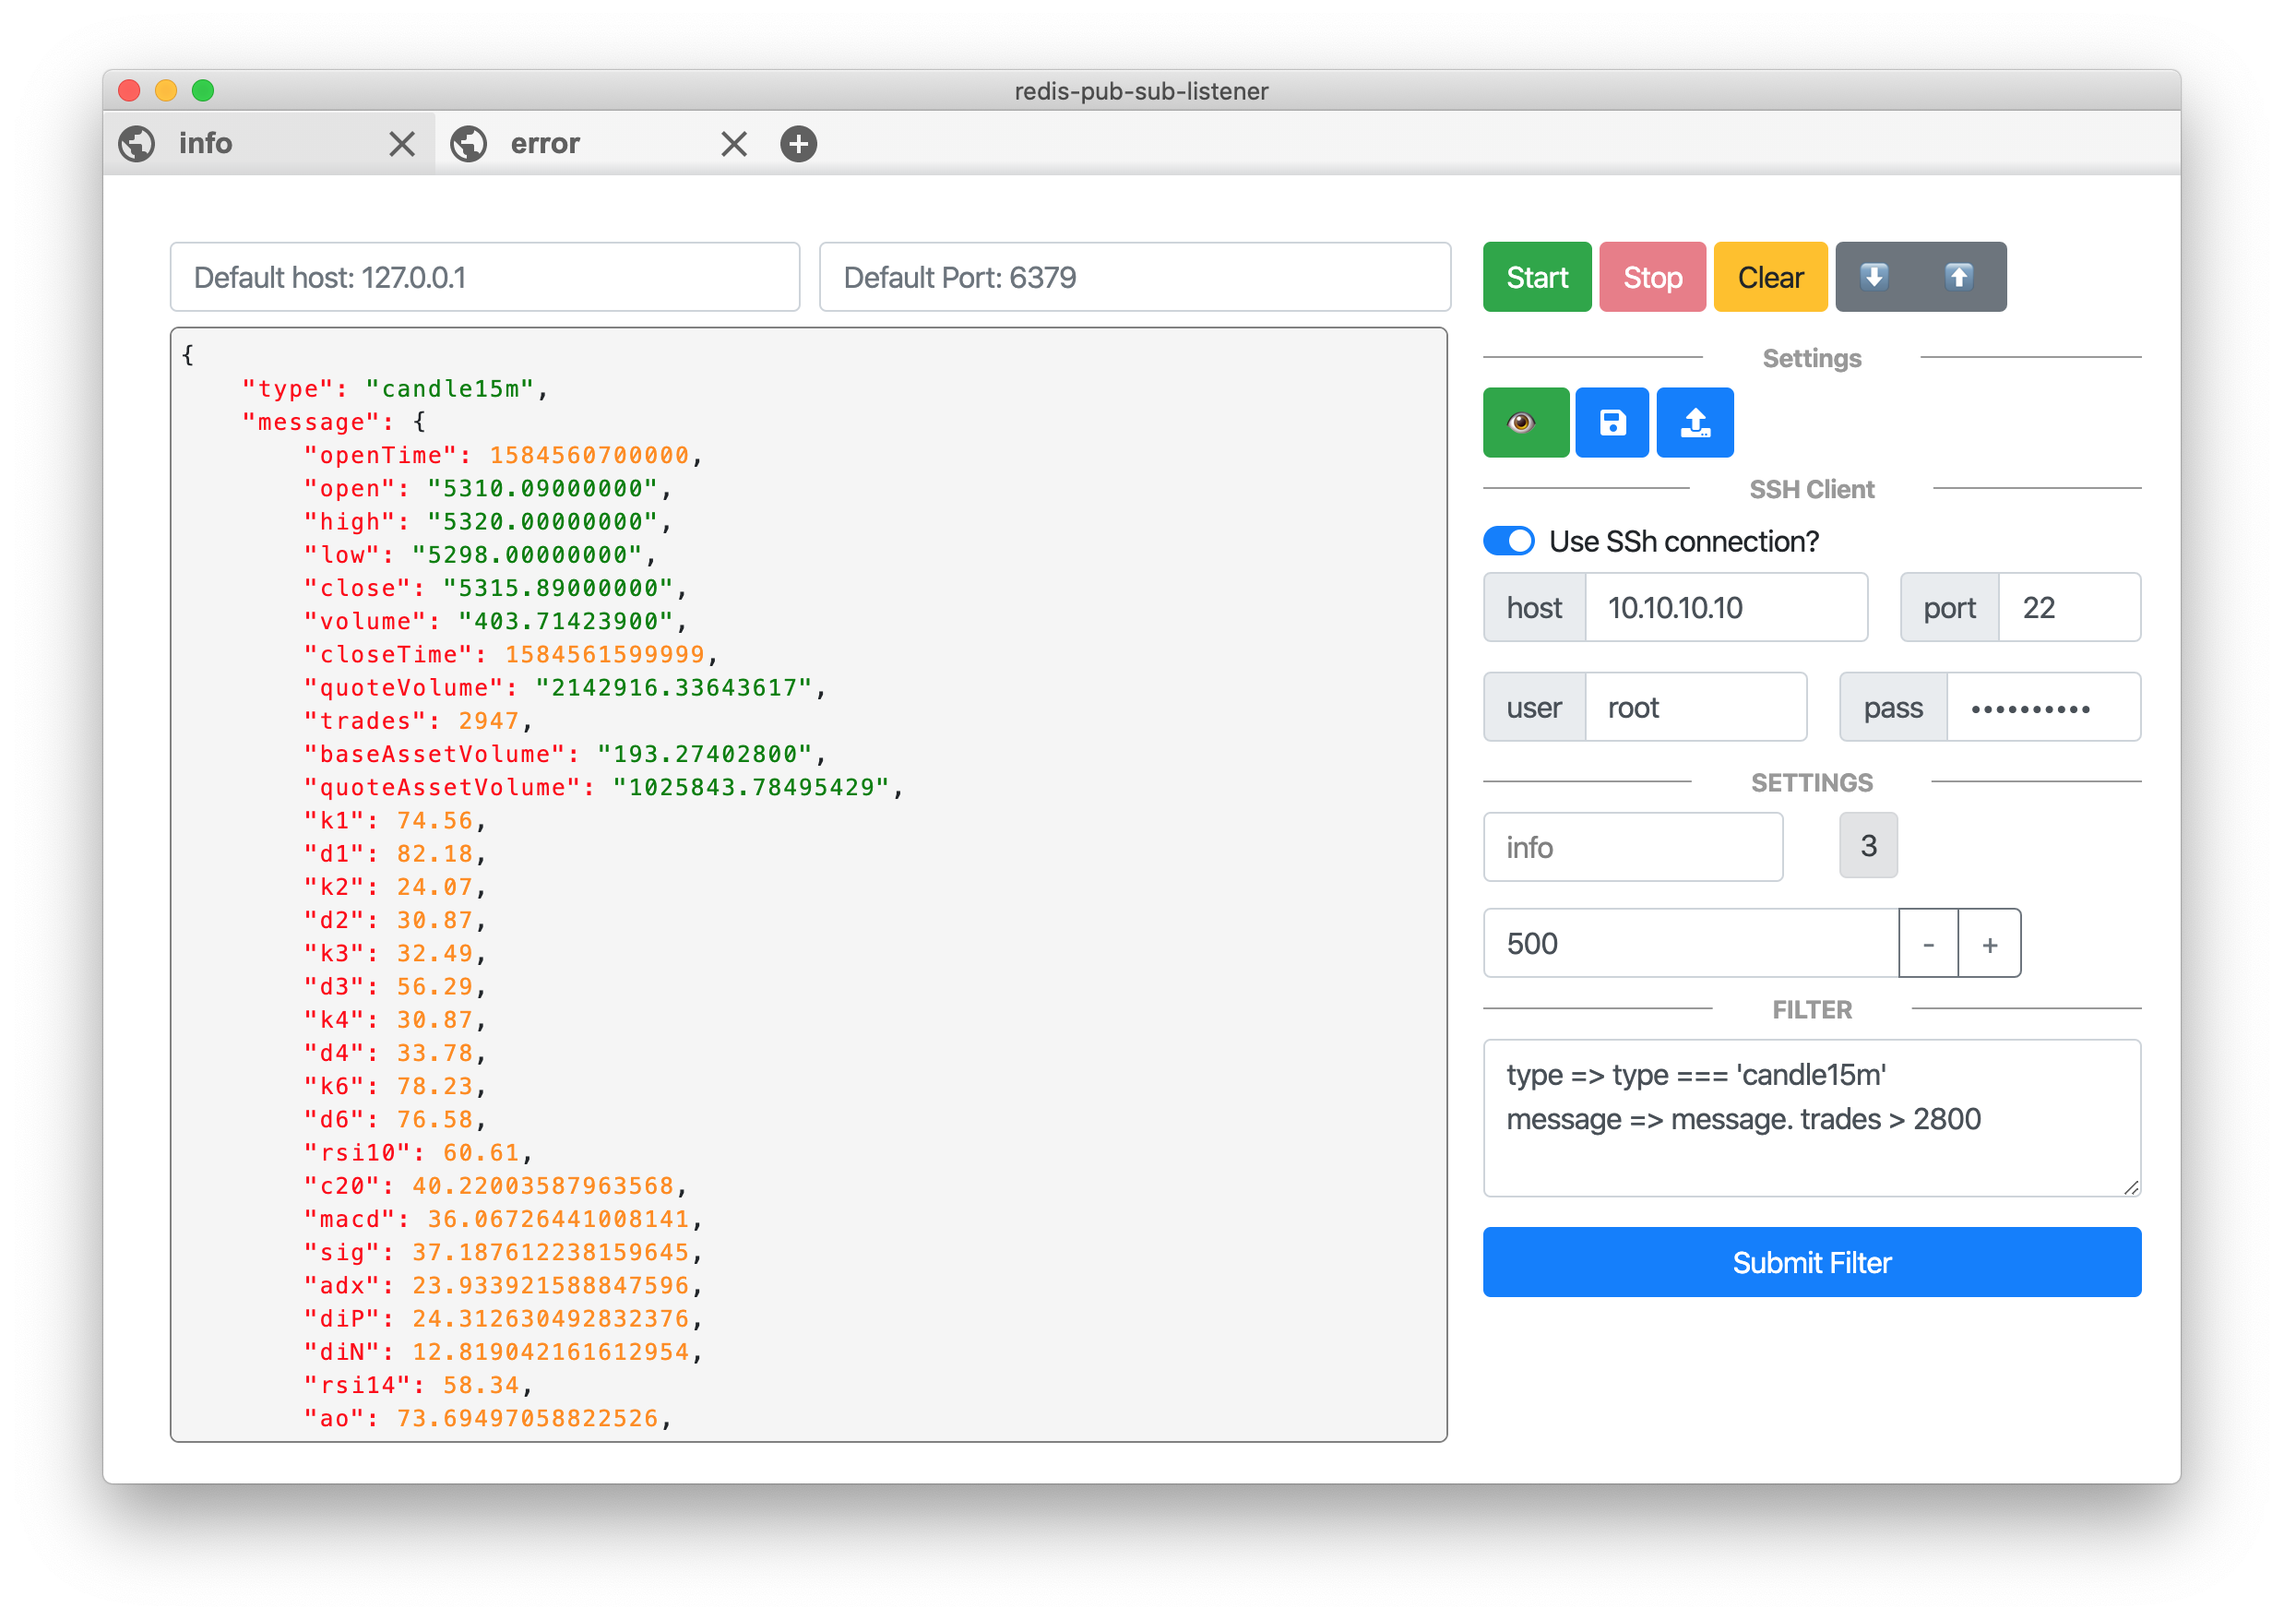
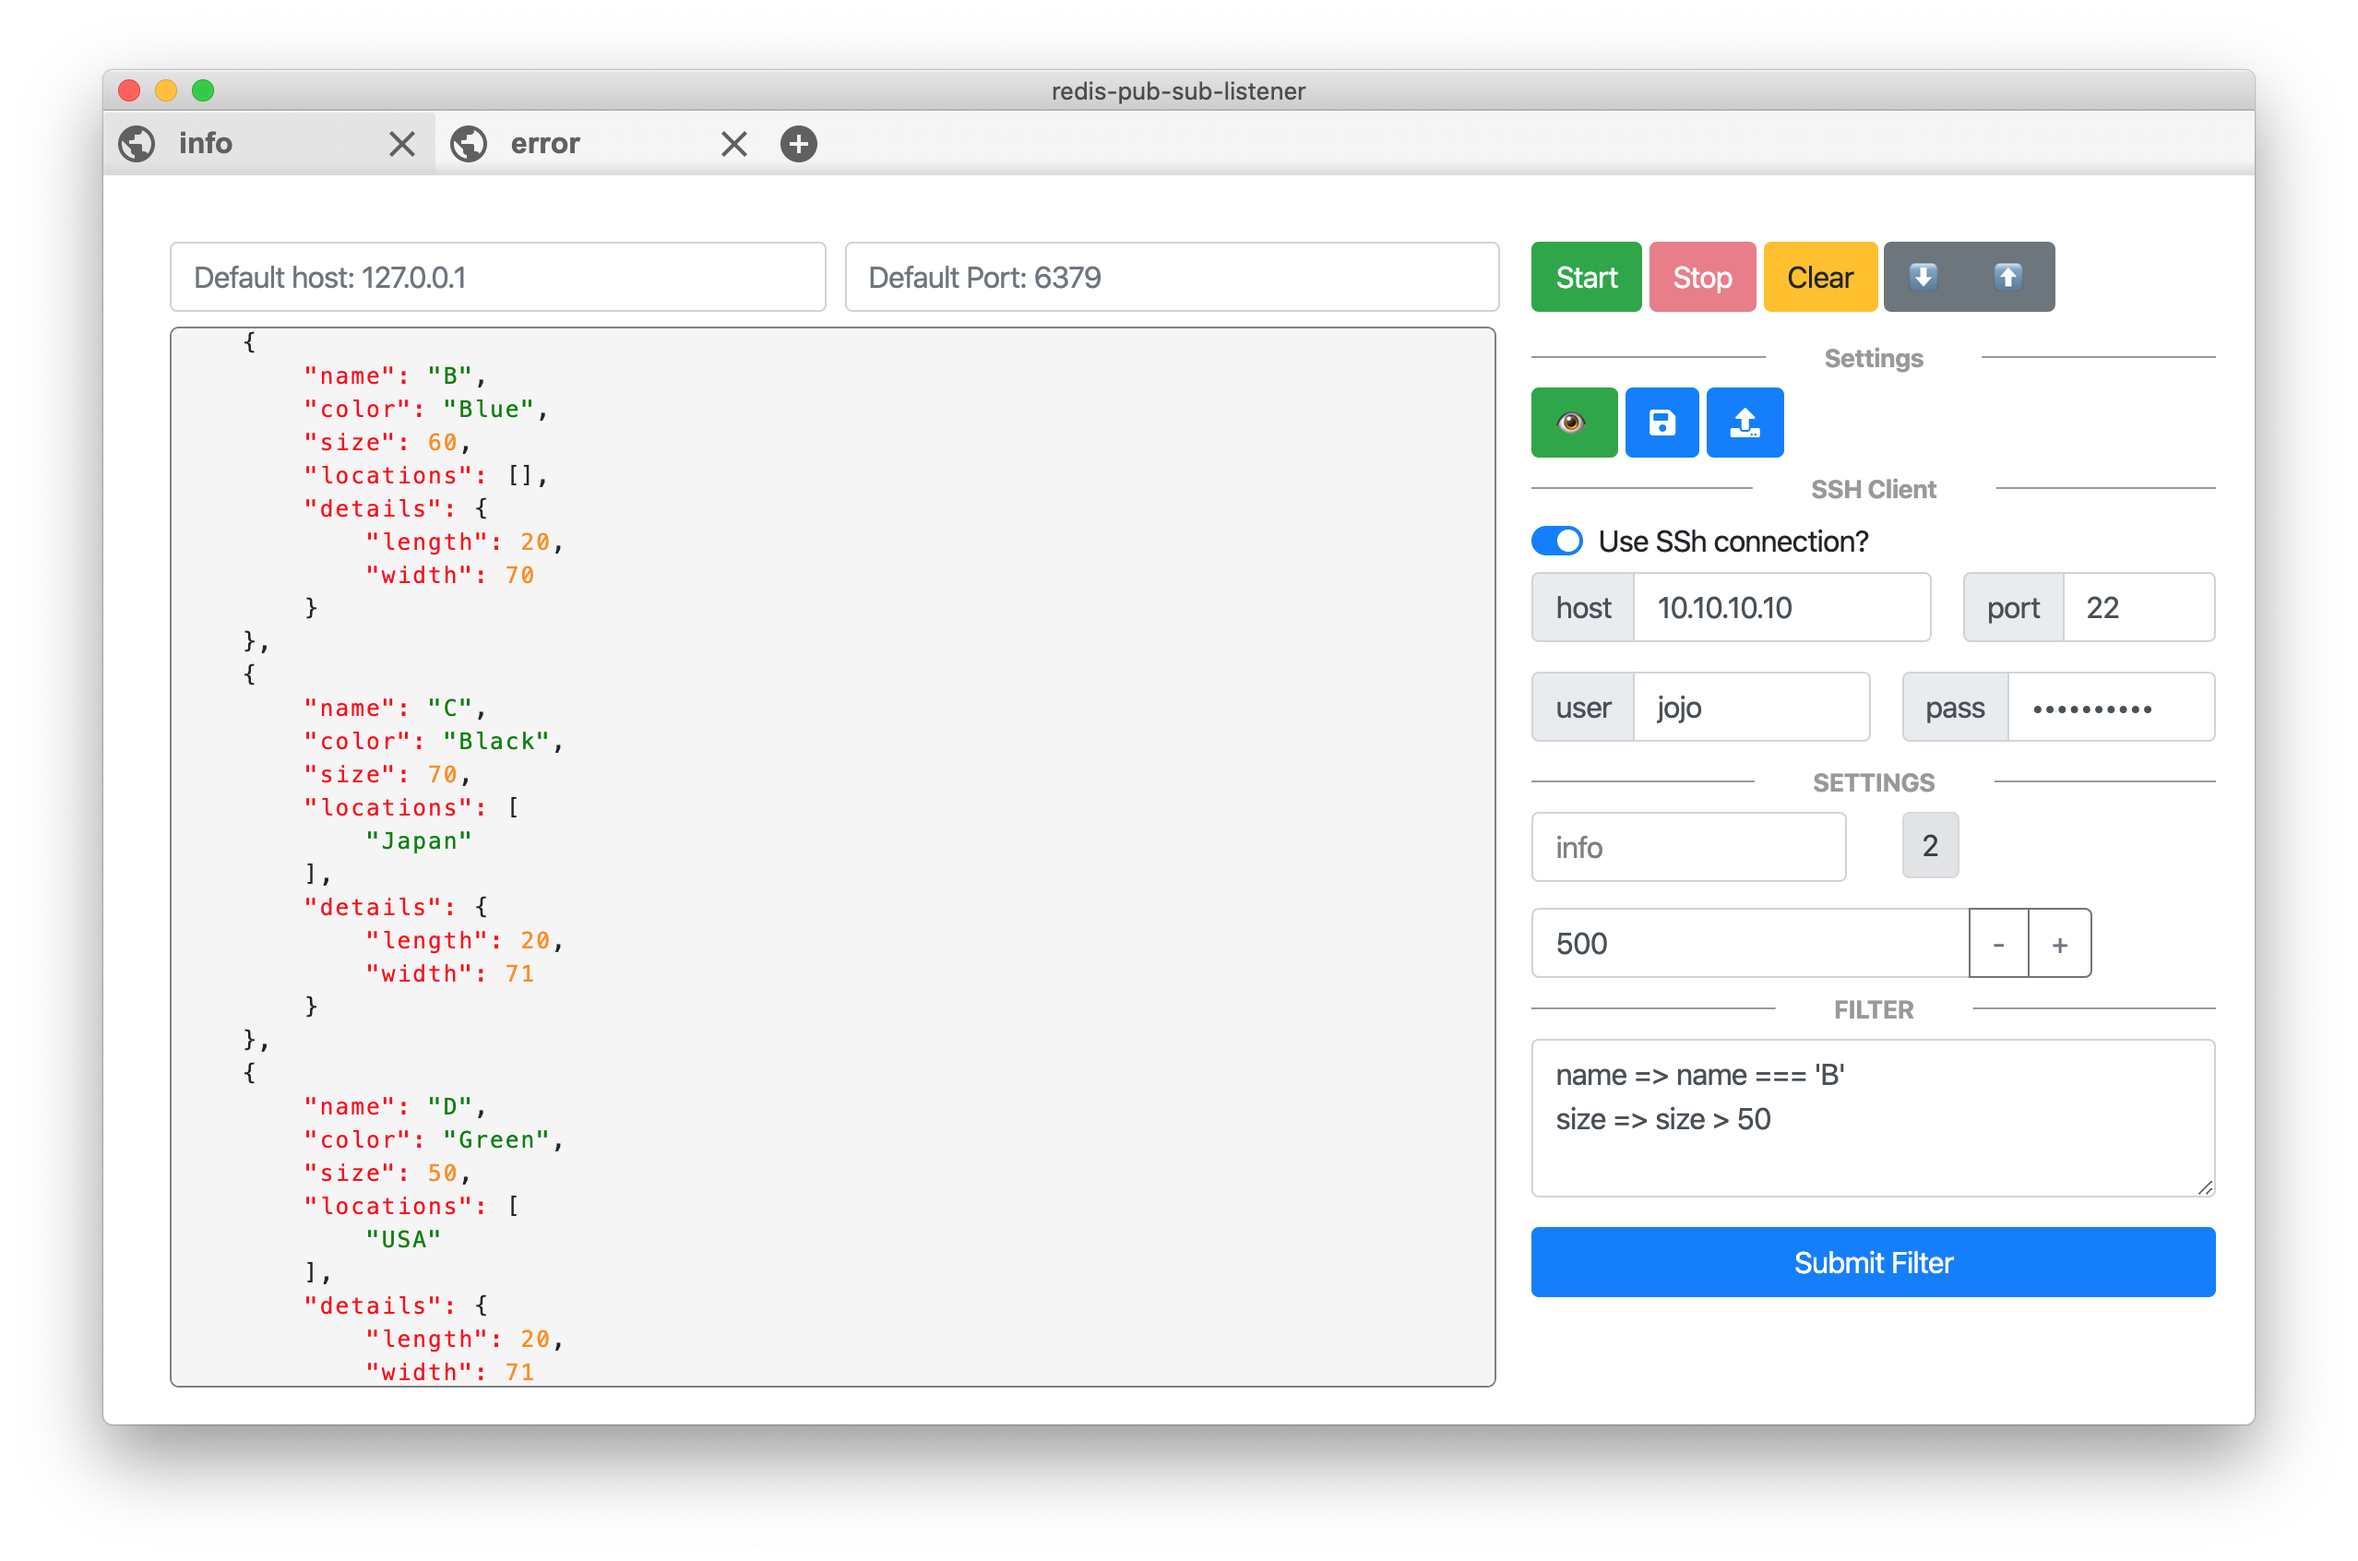
add image

diff --git a/js/channel.js b/js/channel.js
@@ -243,7 +243,7 @@ $(document).ready(function() {
     sendChannelNameToParent();
   });
 
-  //   publish();
+  // publish();
 });
 
 function showNotification(title, message) {
@@ -308,12 +308,37 @@ function publish() {
   var counterA = 0;
   setInterval(() => {
     counterA++;
-    publisher.publish(
-      'info',
-      `{"id":${counterA}, "count" : ${
-        counterA % 2 === 0 ? 1 : 2
-      }, "size" : "one"}`
-    );
+    const prod = [
+      {
+        name: 'A',
+        color: 'Blue',
+        size: 50,
+        locations: ['USA', 'Europe'],
+        details: { length: 20, width: 70 }
+      },
+      {
+        name: 'B',
+        color: 'Blue',
+        size: 60,
+        locations: [],
+        details: { length: 20, width: 70 }
+      },
+      {
+        name: 'C',
+        color: 'Black',
+        size: 70,
+        locations: ['Japan'],
+        details: { length: 20, width: 71 }
+      },
+      {
+        name: 'D',
+        color: 'Green',
+        size: 50,
+        locations: ['USA'],
+        details: { length: 20, width: 71 }
+      }
+    ];
+    publisher.publish('info', JSON.stringify(prod));
   }, 1000);
 }
 
